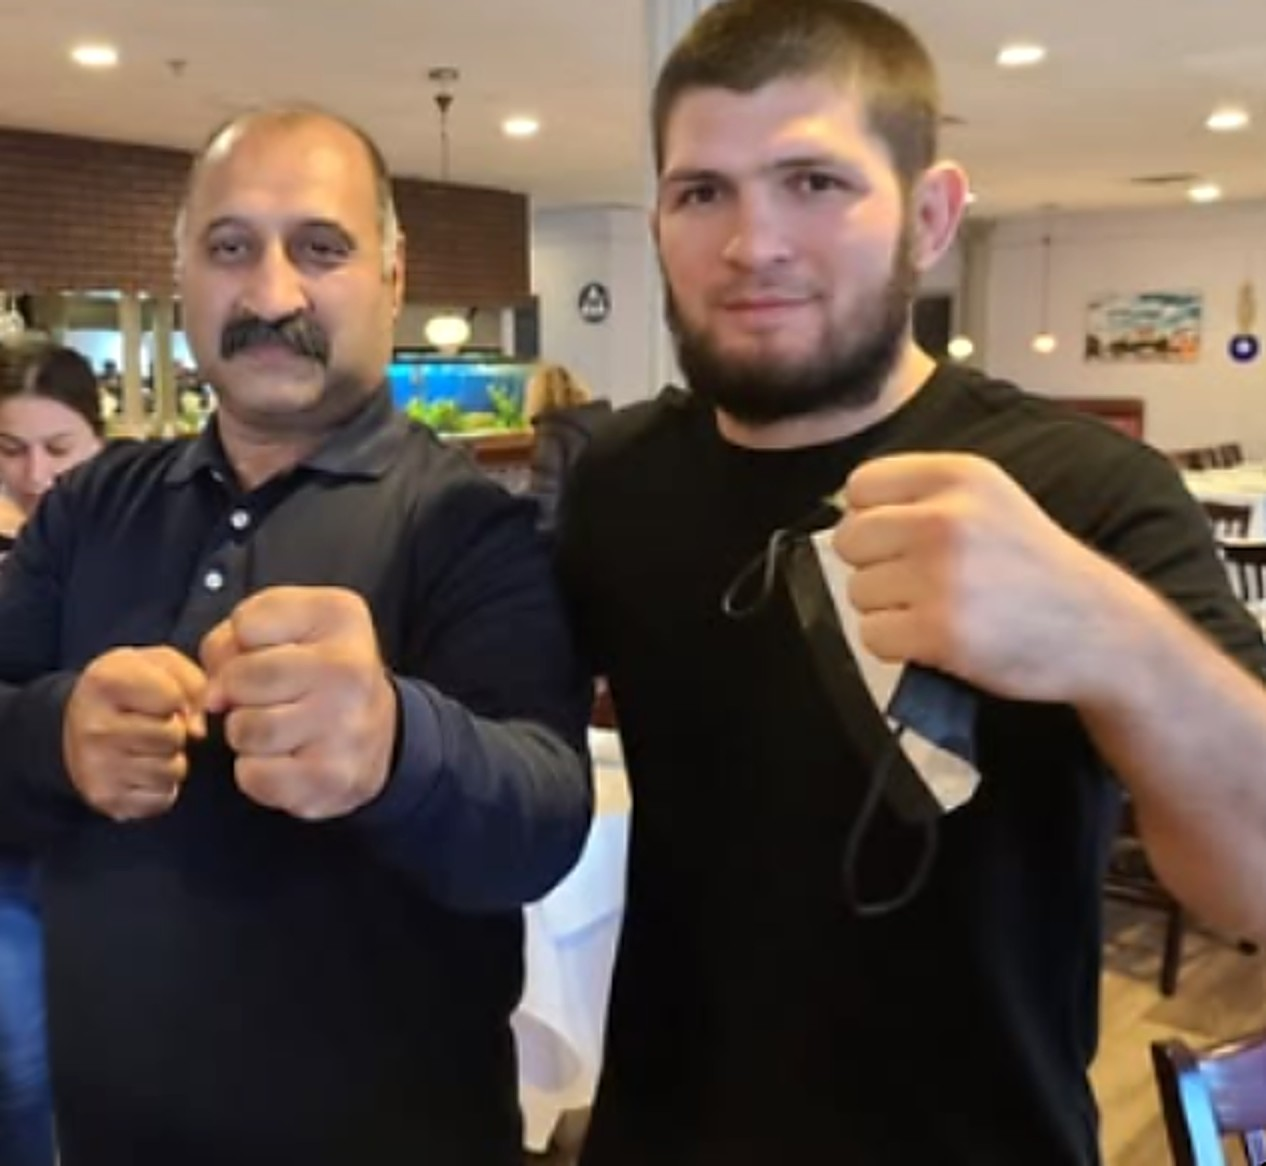
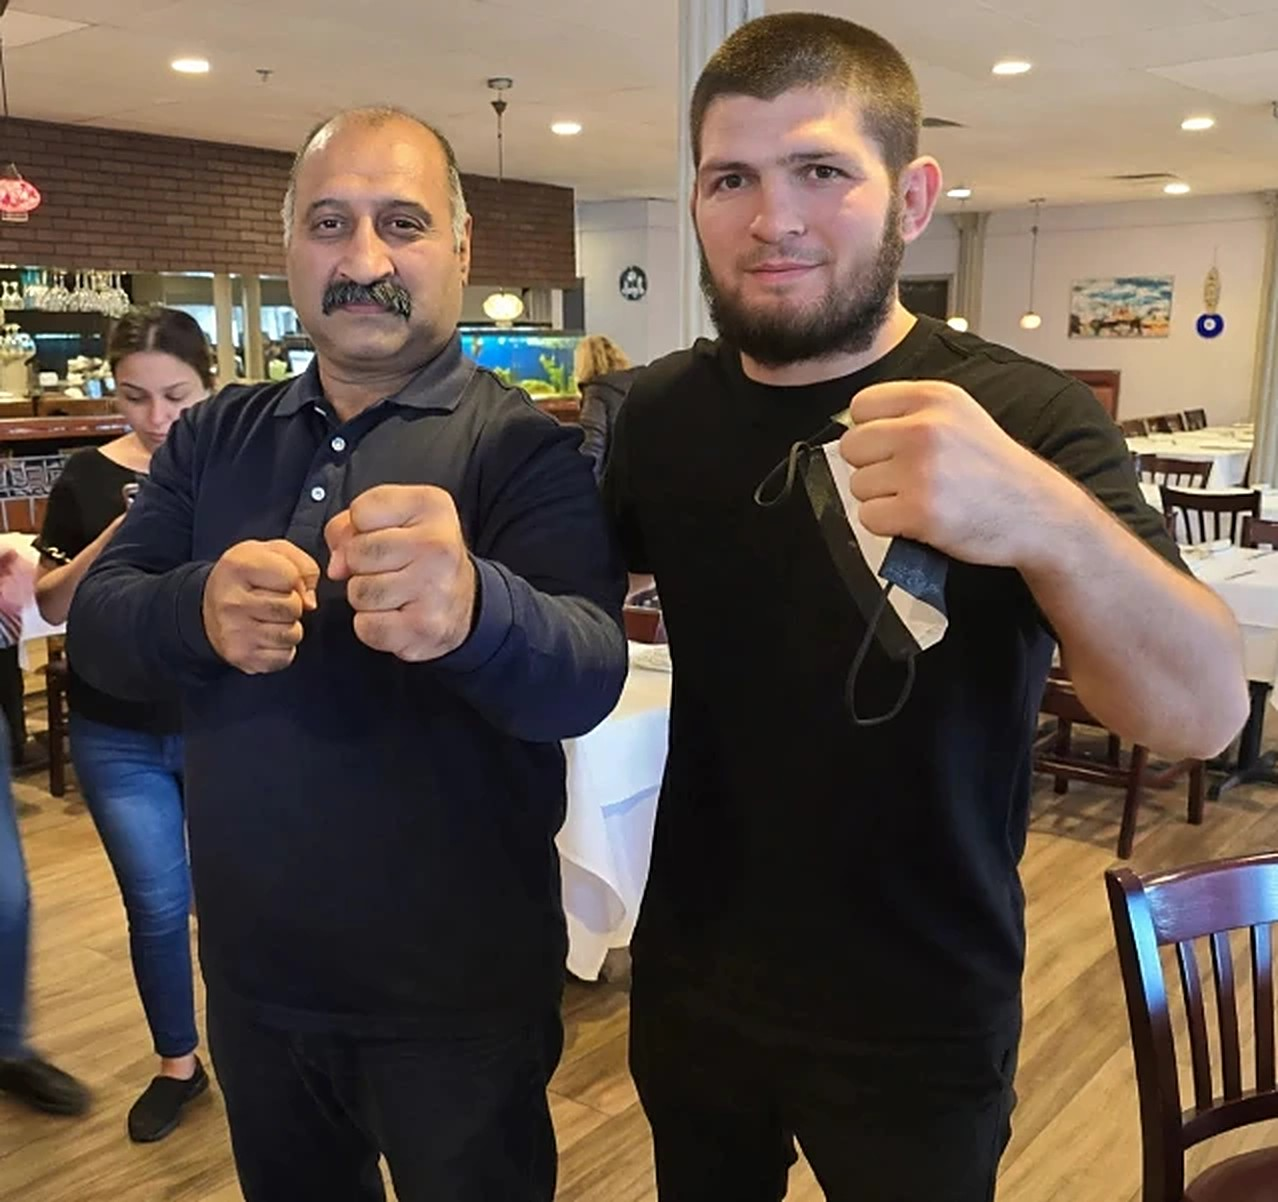
Instructors hero: use the clearer photo
Claude-Session: https://claude.ai/code/session_01MQwV51xR5x2BYN7Mowqzaq

diff --git a/rajamartialarts/instructors.html b/rajamartialarts/instructors.html
@@ -48,7 +48,7 @@
       </div>
     </div>
     <div class="hero__art">
-      <figure class="instr-photo"><img src="assets/img/instructors-hero.jpg" width="1266" height="1166" alt="Shihan Raja with Mr. Khabib" fetchpriority="high"><figcaption class="instr-note">A memorable moment with Mr. Khabib, the MMA champion</figcaption></figure>
+      <figure class="instr-photo"><img src="assets/img/instructors-hero.jpg" width="1278" height="1202" alt="Shihan Raja with Mr. Khabib" fetchpriority="high"><figcaption class="instr-note">A memorable moment with Mr. Khabib, the MMA champion</figcaption></figure>
       <div class="kanji" aria-hidden="true">極真会</div>
     </div>
   </div>

diff --git a/rajamartialarts/assets/css/styles.css b/rajamartialarts/assets/css/styles.css
@@ -974,3 +974,5 @@ a.other .ph > img{object-position:50% 12%}
 .courses-photo img{aspect-ratio:429/726}
 .courses-hero .hero__art .kanji{display:none}
 @media(max-width:900px){.courses-photo{width:min(78%,300px)}}
+
+.instr-photo:not(.courses-photo) img{aspect-ratio:1278/1202}

diff --git a/rajamartialarts/tools/build.py b/rajamartialarts/tools/build.py
@@ -675,7 +675,7 @@ instr = f'''
       </div>
     </div>
     <div class="hero__art">
-      <figure class="instr-photo"><img src="assets/img/instructors-hero.jpg" width="1266" height="1166" alt="Shihan Raja with Mr. Khabib" fetchpriority="high"><figcaption class="instr-note">A memorable moment with Mr. Khabib, the MMA champion</figcaption></figure>
+      <figure class="instr-photo"><img src="assets/img/instructors-hero.jpg" width="1278" height="1202" alt="Shihan Raja with Mr. Khabib" fetchpriority="high"><figcaption class="instr-note">A memorable moment with Mr. Khabib, the MMA champion</figcaption></figure>
       <div class="kanji" aria-hidden="true">極真会</div>
     </div>
   </div>
